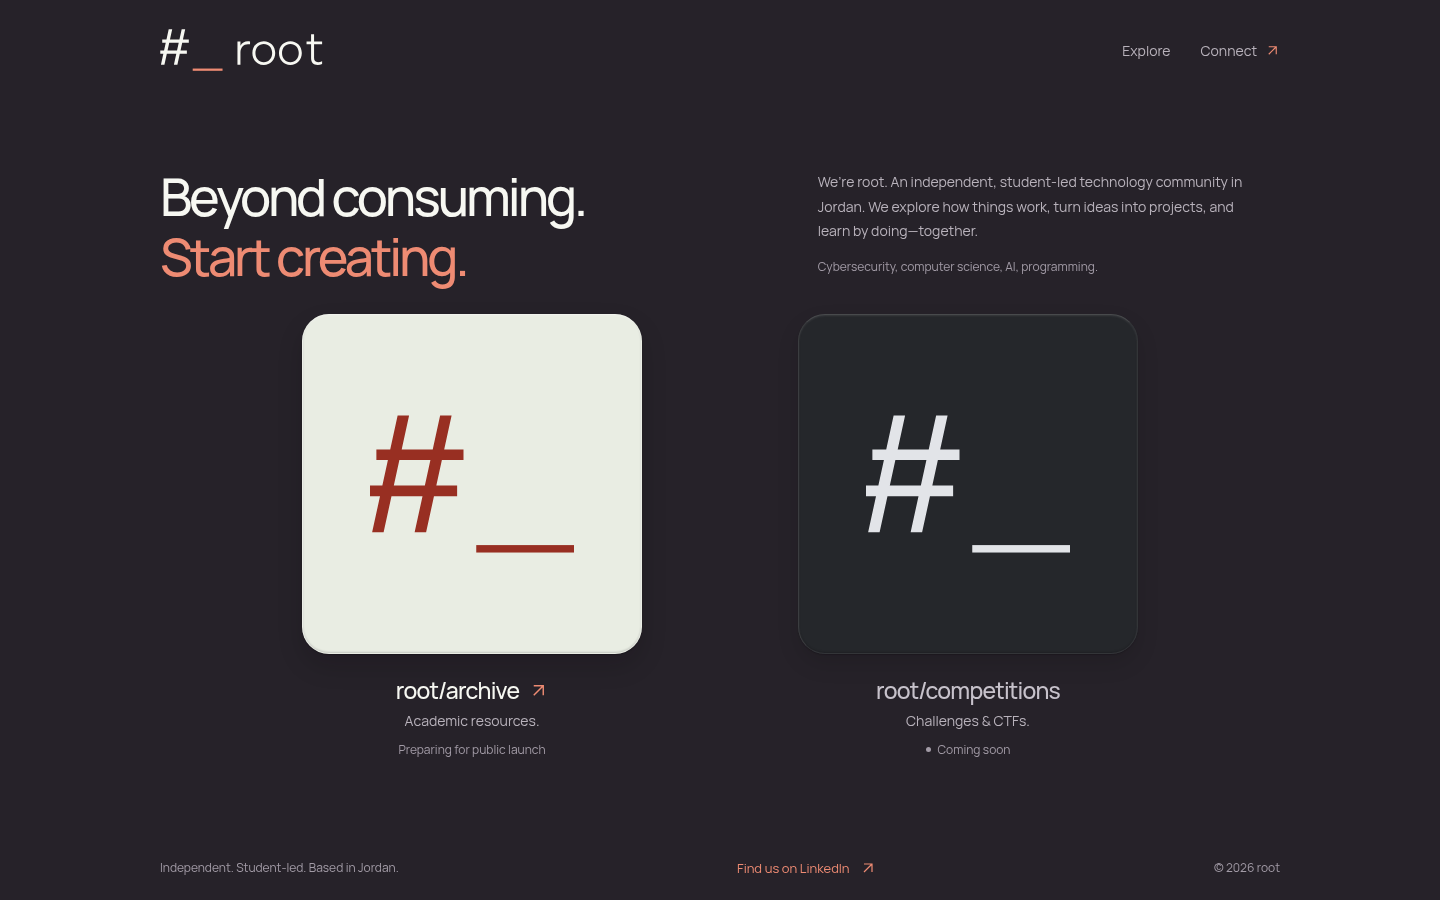
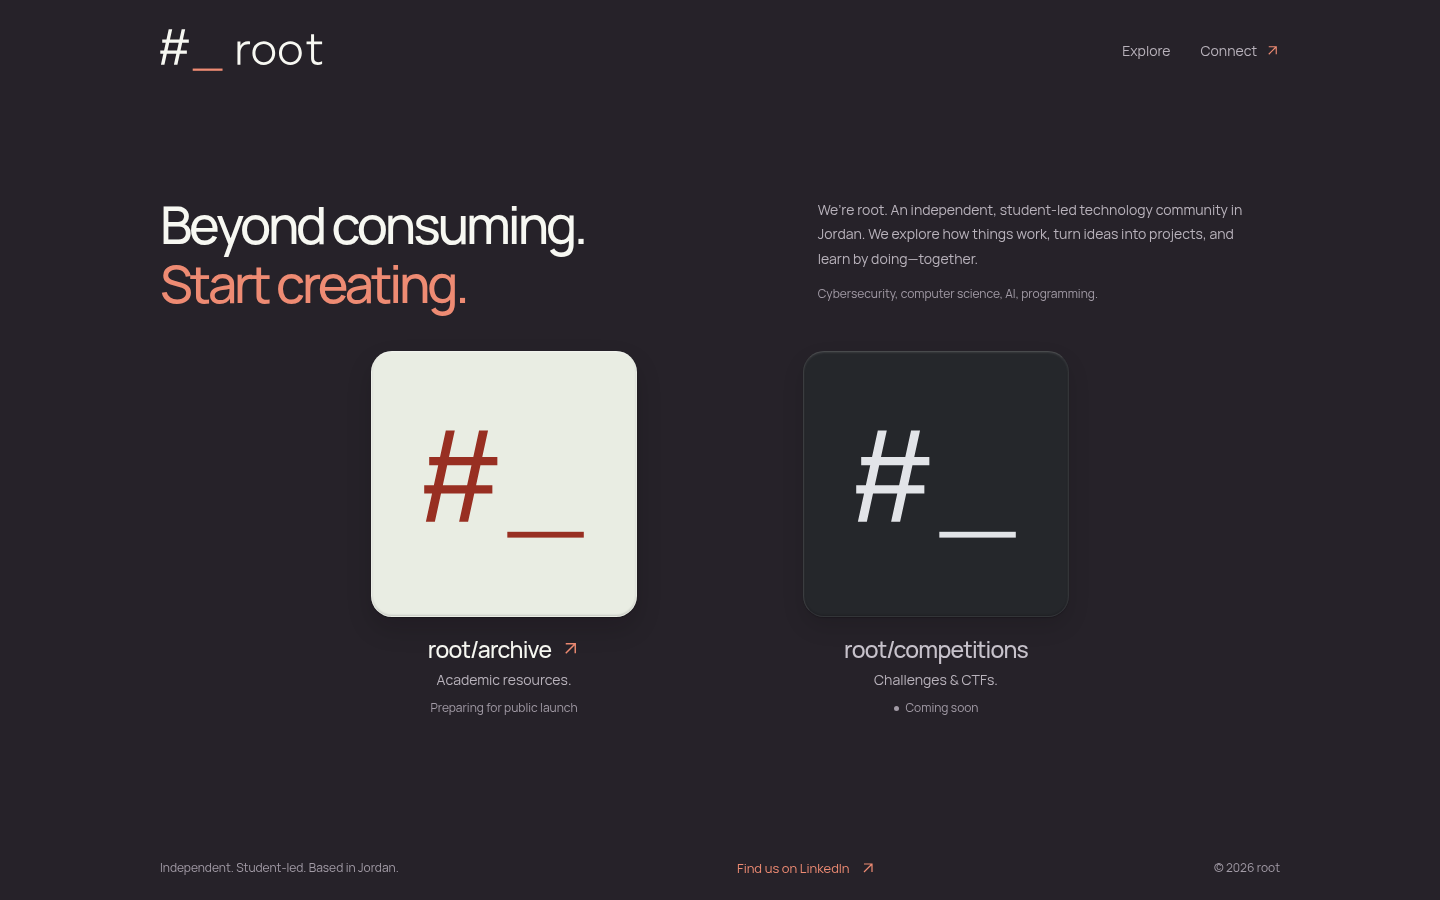
Reduce project artwork scale and rebalance spacing

diff --git a/site/styles.css b/site/styles.css
@@ -14,7 +14,7 @@
   --muted: #b8b2bb;
   --quiet: #a29ba6;
   --line: #403a43;
-  --art-size: clamp(280px, 39vh, 340px);
+  --art-size: clamp(218.4px, 30.42vh, 265.2px);
   --font: Manrope, "Segoe UI", Arial, sans-serif;
 }
 
@@ -40,7 +40,7 @@ img { display: block; max-width: 100%; height: auto; }
 .site-header nav a:hover { color: var(--cream); }
 .site-header .arrow { width: 15px; height: 15px; color: var(--coral); }
 
-main.wrap { flex: 1; display: flex; flex-direction: column; justify-content: center; gap: 28px; padding-block: 14px 24px; }
+main.wrap { flex: 1; display: flex; flex-direction: column; justify-content: center; gap: 38px; padding-block: 8px 32px; }
 main:focus { outline: none; }
 .introduction { display: grid; grid-template-columns: 1.25fr 1fr; align-items: start; gap: 80px; }
 .introduction h1 { font-size: clamp(40px, 3.8vw, 52px); font-weight: 500; line-height: 1.14; letter-spacing: -.06em; }
@@ -48,16 +48,16 @@ main:focus { outline: none; }
 .community-copy { max-width: 440px; padding-top: 3px; font-size: 14px; line-height: 1.75; color: var(--muted); }
 .community-copy p + p { margin-top: 12px; font-size: 12px; color: var(--quiet); }
 
-.project-grid { display: grid; grid-template-columns: repeat(auto-fit, minmax(min(100%, 290px), 1fr)); gap: 72px; max-width: 920px; list-style: none; padding: 0; margin: 0 auto; }
+.project-grid { display: grid; grid-template-columns: repeat(auto-fit, minmax(min(100%, 260px), 1fr)); gap: 64px; max-width: 800px; list-style: none; padding: 0; margin: 0 auto; }
 .project { display: flex; flex-direction: column; align-items: center; text-align: center; }
 /* The complete approved SVG is the surface. There is no surrounding card,
    background replacement, path reconstruction, mask, or logo filter. */
-.project-art { width: var(--art-size); max-width: 100%; aspect-ratio: 1; position: relative; isolation: isolate; border-radius: 27px; box-shadow: 0 1px 1px rgb(9 6 12 / .3), 0 12px 25px rgb(9 6 12 / .17); transition: transform 220ms ease, box-shadow 220ms ease; }
+.project-art { width: var(--art-size); max-width: 100%; aspect-ratio: 1; position: relative; isolation: isolate; border-radius: 21px; box-shadow: 0 1px 1px rgb(9 6 12 / .3), 0 12px 25px rgb(9 6 12 / .17); transition: transform 220ms ease, box-shadow 220ms ease; }
 .project-art img { width: 100%; height: 100%; border-radius: inherit; }
 .project-art::after { content: ""; position: absolute; inset: 0; pointer-events: none; border-radius: inherit; border: 1px solid rgb(247 248 242 / .08); border-top-color: rgb(255 255 255 / .36); border-left-color: rgb(255 255 255 / .19); box-shadow: inset 0 1px 2px rgb(255 255 255 / .25), inset 0 -1px 2px rgb(20 15 24 / .16); transition: border-color 220ms ease, box-shadow 220ms ease; }
 .project-upcoming .project-art { box-shadow: 0 1px 1px rgb(9 6 12 / .2), 0 10px 22px rgb(9 6 12 / .12); }
 .project-upcoming .project-art::after { border-color: rgb(247 248 242 / .07); border-top-color: rgb(247 248 242 / .17); border-left-color: rgb(247 248 242 / .11); box-shadow: inset 0 1px 2px rgb(247 248 242 / .1), inset 0 -1px 2px rgb(9 6 12 / .2); }
-.project-details { margin-top: 20px; }
+.project-details { margin-top: 16px; }
 .project-details h3 { display: flex; justify-content: center; align-items: center; gap: 10px; font-size: 23px; font-weight: 500; line-height: 1.4; letter-spacing: -.035em; }
 .project-details .arrow { color: var(--coral); transition: transform 220ms ease; }
 .project-details > p:not(.project-status) { margin-top: 4px; color: var(--muted); font-size: 14px; line-height: 1.6; }
@@ -89,7 +89,7 @@ main:focus { outline: none; }
   .introduction h1 { font-size: 39px; }
   .community-copy { font-size: 13px; }
   .project-grid { gap: 40px; grid-template-columns: repeat(auto-fit, minmax(min(100%, 240px), 1fr)); }
-  .project-art { width: min(var(--art-size), 285px); }
+  .project-art { width: min(var(--art-size), 222.3px); }
   .site-footer { flex-wrap: wrap; gap: 4px 24px; }
 }
 
@@ -100,14 +100,14 @@ main:focus { outline: none; }
   .site-header nav { gap: 19px; }
   .site-header nav a { font-size: 12px; gap: 5px; }
   .site-header .arrow { width: 13px; height: 13px; }
-  main.wrap { padding-block: 20px 34px; gap: 30px; }
+  main.wrap { padding-block: 20px 28px; gap: 26px; }
   .introduction { grid-template-columns: 1fr; gap: 18px; }
   .introduction h1 { font-size: clamp(31px, 8.7vw, 42px); line-height: 1.15; letter-spacing: -.055em; }
   .community-copy { max-width: 390px; padding-top: 0; font-size: 14px; line-height: 1.75; }
   .community-copy p + p { margin-top: 10px; font-size: 12px; }
-  .project-grid { grid-template-columns: 1fr; gap: 36px; }
-  .project-art { width: 270px; border-radius: 24px; }
-  .project-details { margin-top: 17px; }
+  .project-grid { grid-template-columns: 1fr; gap: 30px; }
+  .project-art { width: 210.6px; border-radius: 19px; }
+  .project-details { margin-top: 14px; }
   .project-details h3 { font-size: 23px; }
   .project-status { font-size: 12px; }
   .site-footer { padding-block: 8px 20px; display: grid; grid-template-columns: 1fr auto; gap: 2px 12px; }

diff --git a/docs/validation.md b/docs/validation.md
@@ -1,4 +1,19 @@
-# Design revision validation — 2026-11-13
+# Design revision validation — 2026-11-14
+
+## Targeted size correction and pending brand asset
+
+Project artwork is uniformly 22% smaller than the preceding revision at all
+five tested widths. Grid width, introduction spacing, artwork-to-caption gaps,
+and mobile/footer spacing were adjusted without changing content or behavior.
+Desktop and mobile screenshots were visually inspected again; all automated
+browser checks pass and axe reports zero violations.
+
+The requested `root-barlow-lockup-dark-transparent.svg` is missing after a
+workspace search. The new upload is `root-barlow-lockup-dark.svg`, which has
+the intended bold outlined Barlow wordmark and a solid plum background. Its
+reference rendering was inspected. It has not been substituted: use of that
+exact opaque asset is awaiting the user's answer. Screenshots currently retain
+the previous thin wordmark, which remains an unresolved branding issue.
 
 ## Rendered result
 
@@ -10,11 +25,11 @@ perspective transform is used on the logo images.
 
 | Viewport | Document size | Logo surface | Result |
 | --- | --- | --- | --- |
-| Desktop 1440 × 900 | 1440 × 900 | 340 × 340 each | Fits one viewport |
-| Laptop 1366 × 768 | 1366 × 768 | About 300 × 300 each | Fits one viewport |
-| Mobile 390 × 844 | 390 × 1243 | 270 × 270 each | Natural vertical scroll |
-| Tablet 768 × 1024 | 768 × 1024 | 285 × 285 each | No horizontal overflow |
-| Narrow mobile 320 × 740 | 320 × 1282 | 270 × 270 each | No horizontal overflow |
+| Desktop 1440 × 900 | 1440 × 900 | About 265 × 265 each | Fits one viewport |
+| Laptop 1366 × 768 | 1366 × 768 | About 234 × 234 each | Fits one viewport |
+| Mobile 390 × 844 | 390 × 1103 | About 211 × 211 each | Natural vertical scroll |
+| Tablet 768 × 1024 | 768 × 1024 | About 222 × 222 each | No horizontal overflow |
+| Narrow mobile 320 × 740 | 320 × 1141 | About 211 × 211 each | No horizontal overflow |
 
 All three requested screenshots were inspected. The first revision's laptop
 capture exposed a 15px vertical overflow. The visual correction pass shortened
@@ -22,7 +37,7 @@ the supporting copy and tightened the main/footer spacing, while increasing
 the laptop artwork from about 292px to 300px. A second rendered inspection
 confirmed that the full laptop page fits naturally, without a fixed page height
 or overflow clipping. The desktop screenshot also fits naturally. Mobile keeps
-large artwork and stacks the projects.
+prominent artwork and stacks the projects.
 
 - [Desktop — 1440 × 900](screenshots/desktop-1440x900.png)
 - [Laptop — 1366 × 768](screenshots/laptop-1366x768.png)
@@ -90,8 +105,8 @@ against plum-black.
 
 ## Limits and deployment boundary
 
-No unresolved branding or rendering issue was observed in the tested Chromium
-renders. Firefox, Safari, screen-reader operation, remote service availability,
+The header asset issue described above remains unresolved. No other rendering
+issue was observed in the tested Chromium renders. Firefox, Safari, screen-reader operation, remote service availability,
 and Cloudflare's deployed response behavior were not tested. Axe and keyboard
 checks do not replace a full assistive-technology audit.
 
